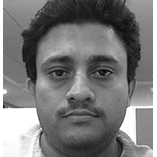
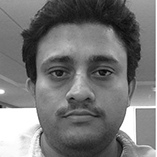
updated Bharat photo, Ian, Will, Nara topics

Changed region(s): [[0.9427, 0.0, 0.9936, 1.0], [0.0, 0.0, 0.0764, 0.7134], [0.051, 0.6369, 0.0764, 0.6624]]

diff --git a/layouts/partials/speakers.html b/layouts/partials/speakers.html
@@ -35,7 +35,7 @@
                                         <hr class="star-primary">
                                         <img src="img/speakers/ian.jpg" class="img-responsive img-centered" alt="">
                                         <h3>Keynote</h3>
-                                        <p style="text-align:left;">Talk Body</p>
+                                        <p style="text-align:left;">Coming soon</p>
                                         <button type="button" class="btn btn-default" data-dismiss="modal"><i class="fa fa-times"></i>Close</button>
                                     </div>
                                 </div>
@@ -69,7 +69,7 @@
                                         <hr class="star-primary">
                                         <img src="img/speakers/will.jpg" class="img-responsive img-centered" alt="">
                                         <h3>Keynote Contributor and CI</h3>
-                                        <p style="text-align:left;">Talk Body</p>
+                                        <p style="text-align:left;">Intro to the Collab and CI focus for hackathon.</p>
                                         <button type="button" class="btn btn-default" data-dismiss="modal"><i class="fa fa-times"></i>Close</button>
                                     </div>
                                 </div>
@@ -174,7 +174,7 @@
                                         <hr class="star-primary">
                                         <img src="img/speakers/nara.jpg" class="img-responsive img-centered" alt="">
                                         <h3>Keynote Contributor</h3>
-                                        <p style="text-align:left;">Talk Body</p>
+                                        <p style="text-align:left;">Coming soon</p>
                                         <button type="button" class="btn btn-default" data-dismiss="modal"><i class="fa fa-times"></i>Close</button>
                                     </div>
                                 </div>
